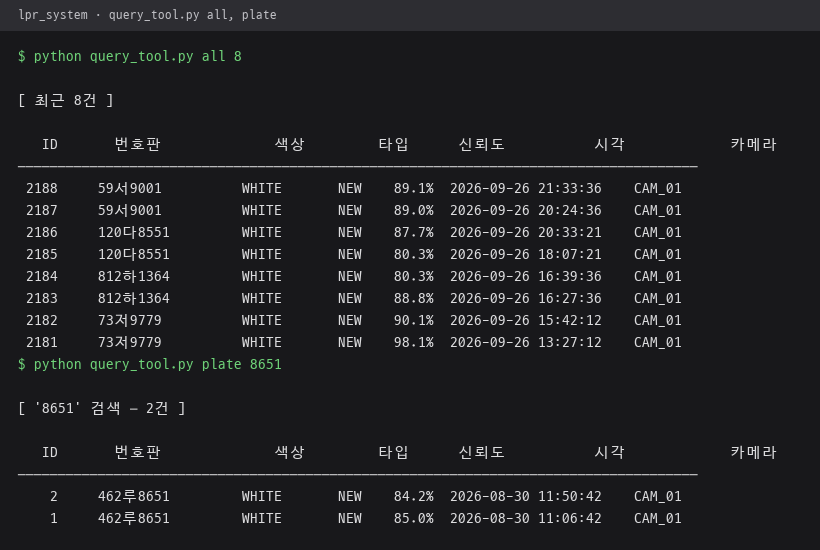
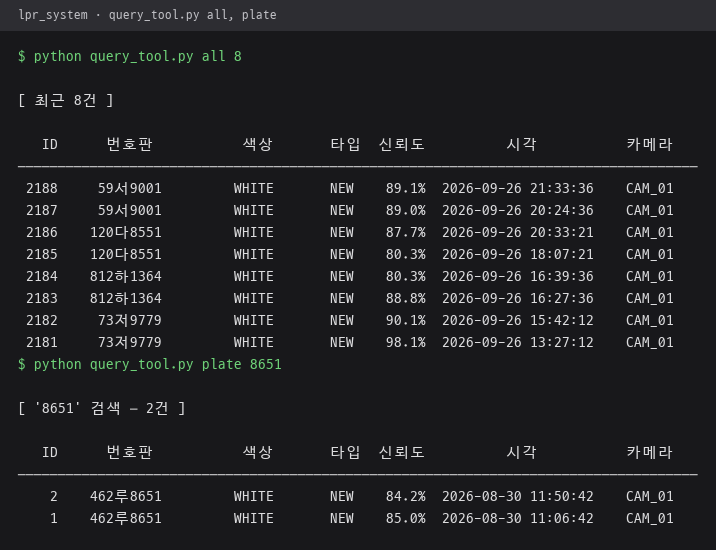
번호판 이미지 한글 파일명이 깨지던 저장 방식 수정, query_tool 한글 열 정렬
- pipeline.py 두 곳과 demo.py의 cv2.imwrite를 imencode().tofile()로 교체
- query_tool 표를 화면 표시 너비 기준으로 정렬, 출력 사진 다시 렌더링

diff --git a/lpr_system/query_tool.py b/lpr_system/query_tool.py
@@ -14,6 +14,7 @@ query_tool.py — DB 조회 / 차량 관리 CLI
 """
 
 import sys
+import unicodedata
 from database import (
     get_connection, init_db,
     query_all, query_by_plate, query_by_date, query_statistics,
@@ -23,17 +24,35 @@ from database import (
 )
 
 
+def _width(s) -> int:
+    """터미널 표시 폭. 한글 등 동아시아 전각 문자는 2칸."""
+    return sum(2 if unicodedata.east_asian_width(ch) in "WF" else 1 for ch in str(s))
+
+
+def _pad(s, width: int, align: str = "<") -> str:
+    """표시 폭 기준 정렬. align: '<' 왼쪽, '>' 오른쪽, '^' 가운데"""
+    s = str(s)
+    gap = max(0, width - _width(s))
+    if align == ">":
+        return " " * gap + s
+    if align == "^":
+        return " " * (gap // 2) + s + " " * (gap - gap // 2)
+    return s + " " * gap
+
+
 def _header():
-    print(f"{'ID':>5}  {'번호판':^14}  {'색상':^14}  {'타입':^4}  "
-          f"{'신뢰도':>6}  {'시각':^20}  {'카메라':^8}")
+    print("  ".join([_pad("ID", 5, ">"), _pad("번호판", 14, "^"), _pad("색상", 14, "^"),
+                     _pad("타입", 4, "^"), _pad("신뢰도", 6, ">"), _pad("시각", 20, "^"),
+                     _pad("카메라", 8, "^")]))
     print("─" * 85)
 
 
 def _row(r):
     try:
-        print(f"{r['id']:>5}  {r['plate_text']:^14}  {r['plate_color']:^14}  "
-              f"{r['plate_type']:^4}  {float(r['confidence']):>6.1%}  "
-              f"{r['timestamp']:^20}  {r['camera_id']:^8}")
+        print("  ".join([_pad(r["id"], 5, ">"), _pad(r["plate_text"], 14, "^"),
+                         _pad(r["plate_color"], 14, "^"), _pad(r["plate_type"], 4, "^"),
+                         _pad(f"{float(r['confidence']):.1%}", 6, ">"),
+                         _pad(r["timestamp"], 20, "^"), _pad(r["camera_id"], 8, "^")]))
     except Exception:
         pass
 
@@ -77,10 +96,11 @@ def cmd_stats(conn):
         print("통계 없음")
         return
     print("\n[ 타입·색상별 통계 ]\n")
-    print(f"{'타입':^6}  {'색상':^14}  {'건수':>6}")
+    print("  ".join([_pad("타입", 6, "^"), _pad("색상", 14, "^"), _pad("건수", 6, ">")]))
     print("─" * 32)
     for r in rows:
-        print(f"{r['plate_type']:^6}  {r['plate_color']:^14}  {r['cnt']:>6}")
+        print("  ".join([_pad(r["plate_type"], 6, "^"), _pad(r["plate_color"], 14, "^"),
+                         _pad(r["cnt"], 6, ">")]))
 
 
 def cmd_add(conn, plate_text, owner="", desc=""):
@@ -110,12 +130,12 @@ def cmd_blocklist(conn):
         print("블랙리스트 없음")
         return
     print(f"\n[ 블랙리스트 — {len(rows)}건 ]\n")
-    print(f"{'번호판':^14}  {'사유':^30}  {'등록일':^12}")
+    print("  ".join([_pad("번호판", 14, "^"), _pad("사유", 30, "^"), _pad("등록일", 12, "^")]))
     print("─" * 62)
     for r in rows:
         r = dict(r)   # sqlite3.Row에는 .get()이 없음
-        print(f"{r['plate_text']:^14}  {r.get('reason') or '':^30}  "
-              f"{(r.get('registered_at') or '')[:10]:^12}")
+        print("  ".join([_pad(r["plate_text"], 14, "^"), _pad(r.get("reason") or "", 30, "^"),
+                         _pad((r.get("registered_at") or "")[:10], 12, "^")]))
 
 
 def cmd_purge(conn, days=90):

diff --git a/lpr_system/pipeline.py b/lpr_system/pipeline.py
@@ -416,7 +416,8 @@ def process_frame(
                 safe_ts    = timestamp.replace(":", "-").replace(" ", "_")
                 date_dir   = _get_date_image_dir(timestamp)
                 image_path = os.path.join(date_dir, f"{final_text}_{safe_ts}.jpg")
-                cv2.imwrite(image_path, final_roi)
+                # cv2.imwrite는 Windows에서 한글 파일명을 깨뜨려 DB 경로와 실제 파일명이 달라짐
+                cv2.imencode(".jpg", final_roi)[1].tofile(image_path)
 
             insert_plate_log(
                 conn, final_text, plate_color, plate_type, final_conf,
@@ -531,7 +532,8 @@ def process_tracked_roi(
             safe_ts    = timestamp.replace(":", "-").replace(" ", "_")
             date_dir   = _get_date_image_dir(timestamp)
             image_path = os.path.join(date_dir, f"{final_text}_{safe_ts}.jpg")
-            cv2.imwrite(image_path, final_roi)
+            # cv2.imwrite는 Windows에서 한글 파일명을 깨뜨려 DB 경로와 실제 파일명이 달라짐
+            cv2.imencode(".jpg", final_roi)[1].tofile(image_path)
 
         insert_plate_log(
             conn, final_text, plate_color, plate_type, final_conf,

diff --git a/lpr_system/demo.py b/lpr_system/demo.py
@@ -109,7 +109,7 @@ def run_demo():
         # 이미지 저장
         ts_str     = datetime.now().strftime("%Y%m%d_%H%M%S_%f")[:19]
         img_path   = f"plate_images/{plate_text.replace(' ', '_')}_{ts_str}.jpg"
-        cv2.imwrite(img_path, img)
+        cv2.imencode(".jpg", img)[1].tofile(img_path)   # 한글 파일명 보존 (cv2.imwrite는 Windows에서 깨짐)
 
         # DB 저장 (데모에서는 OCR 생략, 텍스트 직접 입력)
         confidence = 0.98
